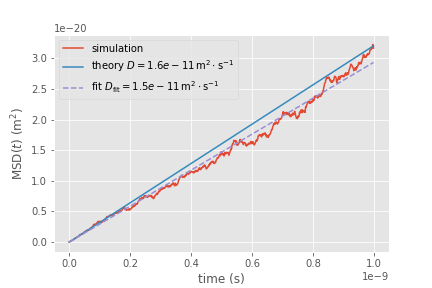
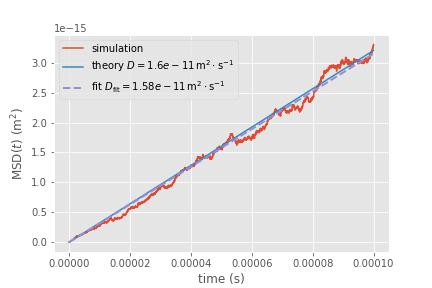
updated stochastic dynamics
- new figs
- fixed caption and dos2unix

diff --git a/_posts/2021-02-23-06_random_walk_numpy.md b/_posts/2021-02-23-06_random_walk_numpy.md
@@ -63,9 +63,9 @@ a randomly diffusing particle.
 
 ![Trajectories of a diffusing particle]({{ site.baseurl }}/{{ site.figs
   }}/diffusion_trajectories.png) <small>**Diffusion
-  trajectories**. The random movement of a [Brome Mosaic
+  trajectories**. The 1D random movement of a [Brome Mosaic
   Virus](https://en.wikipedia.org/wiki/Brome_mosaic_virus) in water
-  was simulated for 1000 time steps and repeated 100 times. A single
+  was simulated for 10,000 time steps and repeated 100 times. A single
   realization of the stochastic diffusion trajectory is highlighted in
   red.</small>
 
@@ -82,7 +82,7 @@ coefficient* \\(D\\).
 
 ![Mean square displacement as function of time]({{ site.baseurl }}/{{
   site.figs }}/diffusion_sim_theory_fit.png) <small>**Mean square
-  displacement as function of time for diffusion**. The MSD of the
+  displacement (1D) as function of time for diffusion**. The MSD of the
   simulation trajectories (red) increases linear with time as
   predicted by theory (blue line). A fit of \\(y = 2Dt\\) to the
   simulation data recovers the true diffusion coefficient almost
